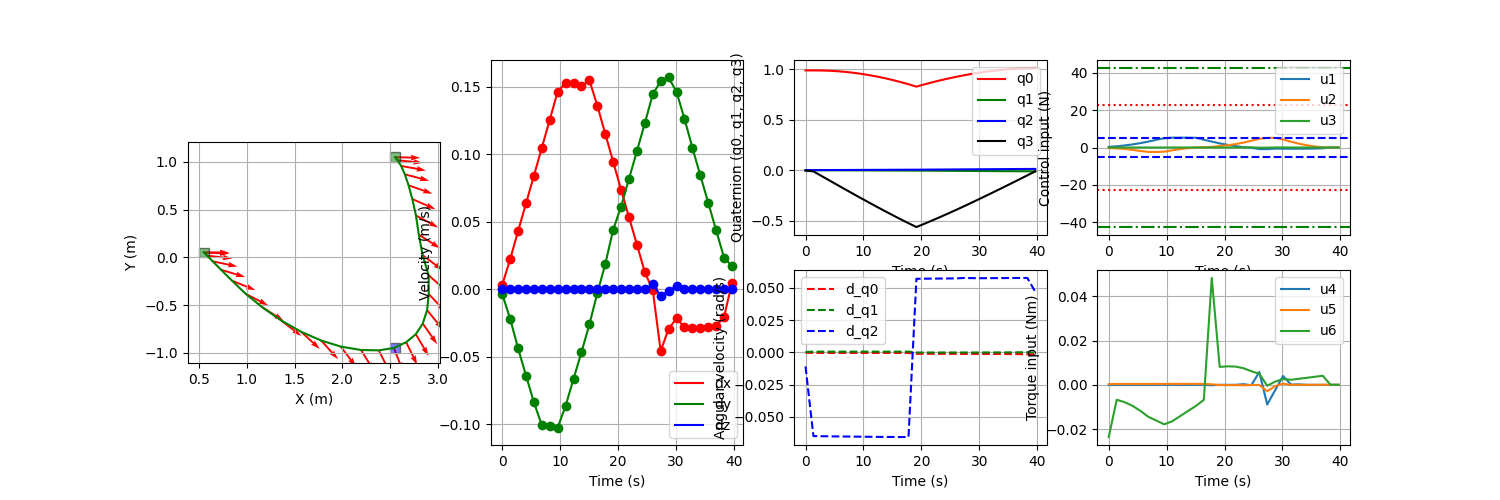
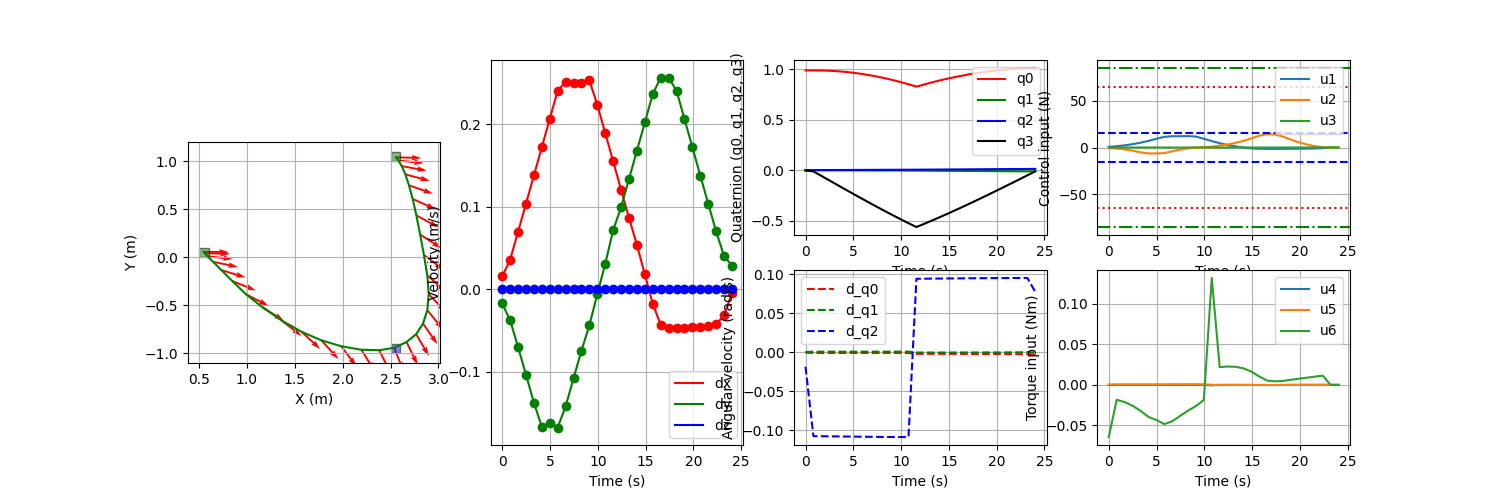
added proper U bounds for bluerov

diff --git a/stl_mapping/Planning/bezier_fitting.py b/stl_mapping/Planning/bezier_fitting.py
@@ -67,7 +67,7 @@ def bezier_fitting(data, model_name):
 
     q_sols = [np.array([x[i, 3:7], x[i+1, 3:7]]) for i in range(N-1)]
     q_sols = np.array(q_sols)
-    print(f"q_sols: {q_sols}")
+    # print(f"q_sols: {q_sols}")
 
     np.savez(f'stl_mapping/Planning/solutions/{model_name}_solution_bezier.npz',
             r=r_sols, dr=dr_sols, ddr=ddr_sols, q=q_sols, dt=dt, alpha=alpha, times=times)
@@ -78,7 +78,7 @@ def bezier_fitting(data, model_name):
     ddr_vals = [eval_bezier(ddr_vars[i].value) for i in range(N-1)]
 
     # Print the results
-    print(f"Optimal cost: {prob.value}")
+    # print(f"Optimal cost: {prob.value}")
 
     # Plot the results
     fig, axs = plt.subplots(1,4, figsize=(20, 10))
